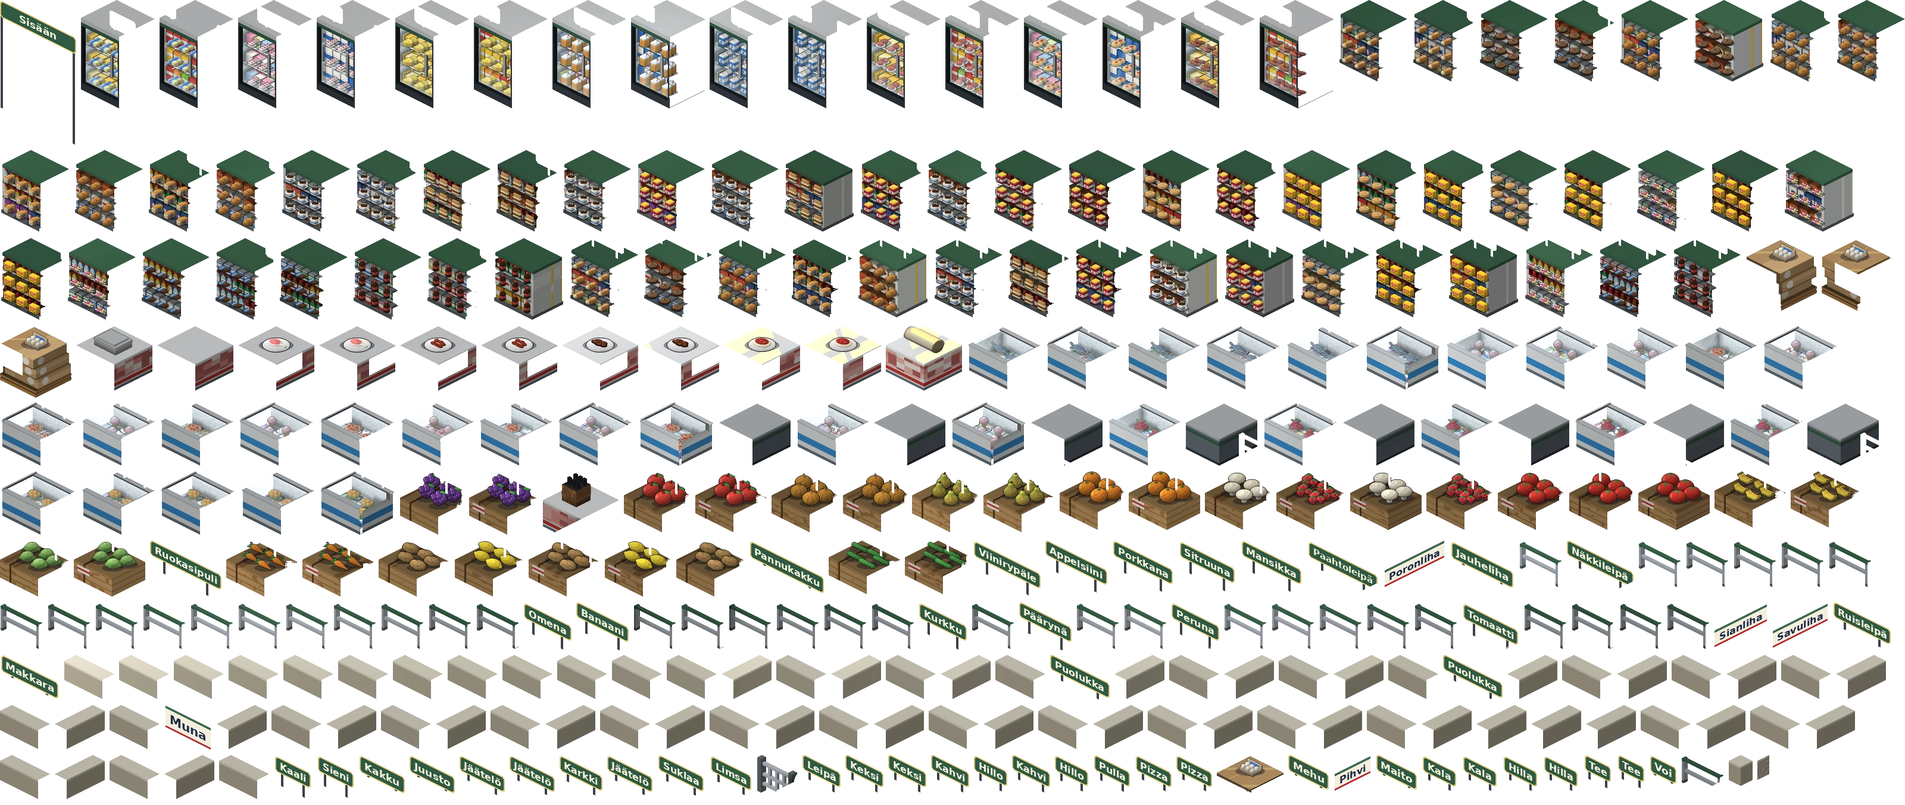
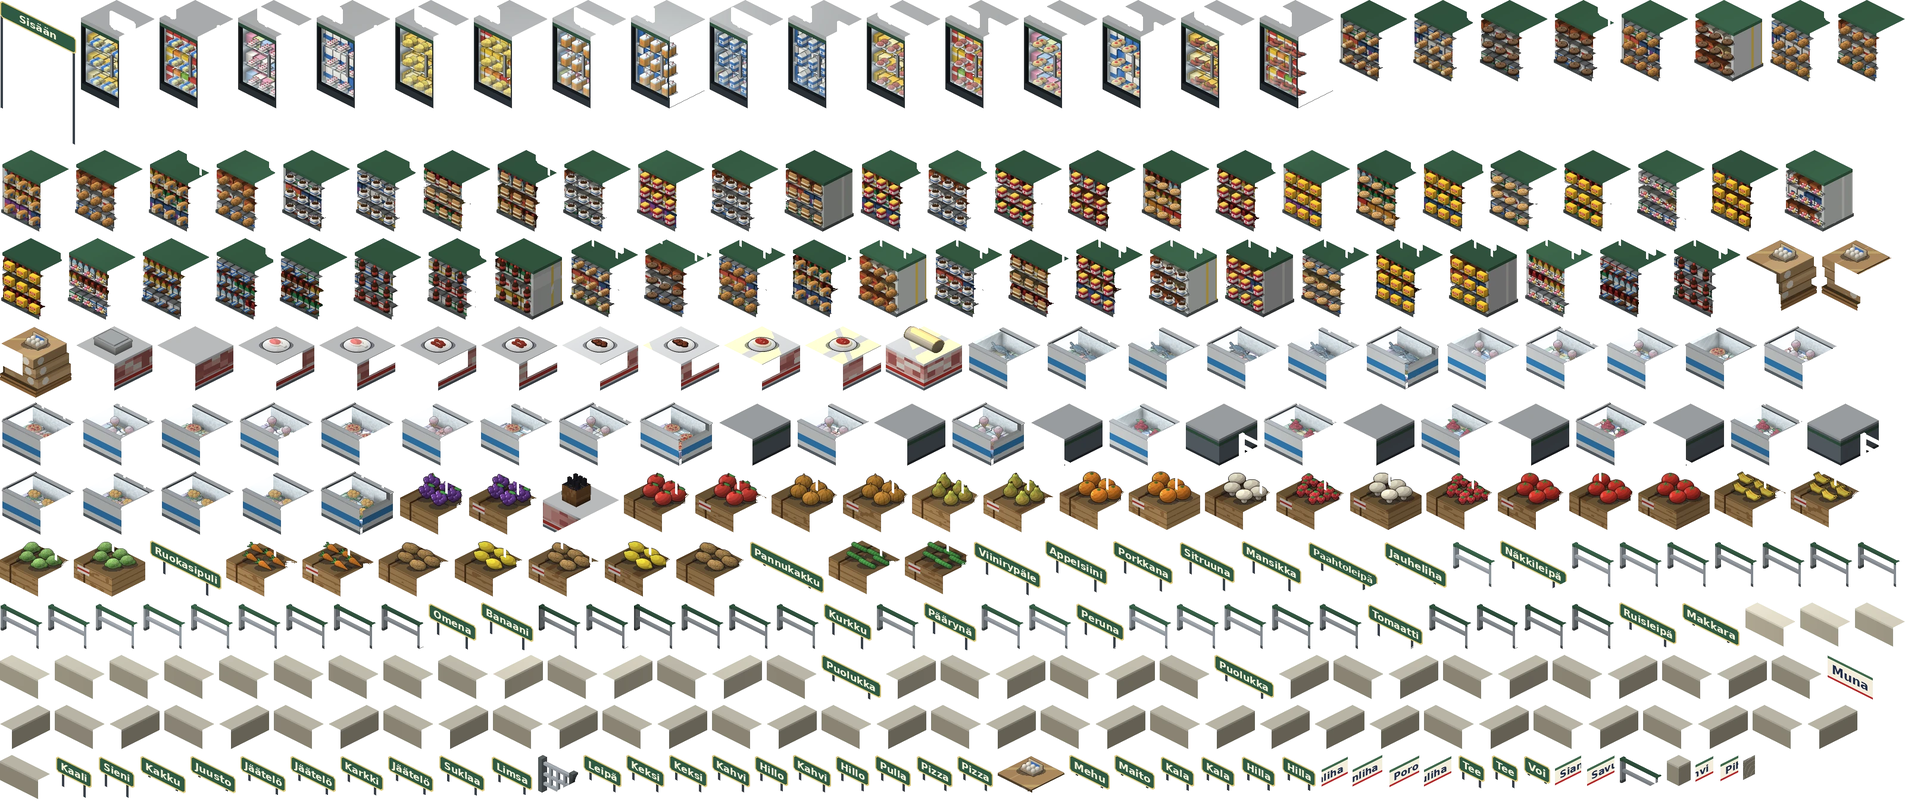
Sátnemátki v0.2.5.1
A hotfix: in Ruokakauppa the character no longer goes behind the signs on
the butcher's counter.

Changed region(s): [[0.0, 0.6524, 1.0, 0.9941], [0.9375, 0.9009, 0.9688, 0.932]]

diff --git a/art/store/fixtures.js b/art/store/fixtures.js
@@ -1,2 +1,2 @@
 // Generated by tools/make_store.py: where each tile's picture is on the sheet, and where it goes in its 256-high cell.
-window.MAHTTE_STORE = {"41,27s":[0,0,128,244,-96,-36],"5,4":[136,0,124,184,4,72],"6,4":[268,0,124,184,4,72],"7,4":[400,0,124,184,4,72],"8,4":[532,0,124,184,4,72],"9,4":[664,0,124,184,4,72],"10,4":[796,0,124,184,4,72],"11,4":[928,0,124,184,4,72],"12,4":[1060,0,124,184,4,72],"15,4":[1192,0,124,184,4,72],"16,4":[1324,0,124,184,4,72],"17,4":[1456,0,124,184,4,72],"18,4":[1588,0,124,184,4,72],"19,4":[1720,0,124,184,4,72],"20,4":[1852,0,124,184,4,72],"21,4":[1984,0,124,184,4,72],"22,4":[2116,0,124,184,4,72],"6,9":[2248,0,116,140,4,116],"7,9":[2372,0,104,140,4,116],"9,9":[2484,0,116,140,4,116],"10,9":[2608,0,104,140,4,116],"6,14":[2720,0,116,140,4,116],"12,9":[2844,0,120,140,4,116],"7,14":[2972,0,104,140,4,116],"9,14":[3084,0,116,140,4,116],"15,9":[0,252,116,140,4,116],"10,14":[124,252,116,140,4,116],"16,9":[248,252,104,140,4,116],"11,14":[360,252,104,140,4,116],"6,19":[472,252,116,140,4,116],"7,19":[596,252,104,140,4,116],"18,9":[708,252,116,140,4,116],"19,9":[832,252,104,140,4,116],"9,19":[944,252,116,140,4,116],"15,14":[1068,252,116,140,4,116],"10,19":[1192,252,116,140,4,116],"21,9":[1316,252,120,140,4,116],"16,14":[1444,252,104,140,4,116],"11,19":[1556,252,104,140,4,116],"18,14":[1668,252,116,140,4,116],"19,14":[1792,252,116,140,4,116],"25,9":[1916,252,116,140,4,116],"20,14":[2040,252,104,140,4,116],"15,19":[2152,252,116,140,4,116],"26,9":[2276,252,104,140,4,116],"16,19":[2388,252,104,140,4,116],"28,9":[2500,252,116,140,4,116],"18,19":[2624,252,116,140,4,116],"29,9":[2748,252,116,140,4,116],"19,19":[2872,252,116,140,4,116],"30,9":[2996,252,120,140,4,116],"20,19":[0,400,104,140,4,116],"34,9":[112,400,116,140,4,116],"35,9":[236,400,116,140,4,116],"36,9":[360,400,100,140,4,116],"38,9":[468,400,116,140,4,116],"39,9":[592,400,116,140,4,116],"40,9":[716,400,104,140,4,116],"42,9":[828,400,120,140,4,116],"8,9":[956,400,116,136,4,120],"11,9":[1080,400,116,136,4,120],"8,14":[1204,400,116,136,4,120],"17,9":[1328,400,104,136,4,120],"12,14":[1440,400,120,136,4,120],"8,19":[1568,400,116,136,4,120],"20,9":[1692,400,104,136,4,120],"17,14":[1804,400,116,136,4,120],"12,19":[1928,400,120,136,4,120],"21,14":[2056,400,120,136,4,120],"27,9":[2184,400,116,136,4,120],"17,19":[2308,400,116,136,4,120],"21,19":[2432,400,120,136,4,120],"33,9":[2560,400,116,136,4,120],"37,9":[2684,400,116,136,4,120],"41,9":[2808,400,116,136,4,120],"31,24":[2932,400,120,124,0,132],"30,25":[3060,400,120,124,8,132],"31,25":[0,548,120,120,4,132],"3,4":[128,548,128,108,0,148],"3,5":[264,548,128,108,0,148],"3,6":[400,548,128,108,0,148],"3,7":[536,548,128,108,0,148],"3,8":[672,548,128,108,0,148],"3,9":[808,548,128,108,0,148],"3,10":[944,548,128,108,0,148],"3,11":[1080,548,128,108,0,148],"3,12":[1216,548,128,108,0,148],"3,13":[1352,548,128,108,0,148],"3,14":[1488,548,128,108,0,148],"25,4":[1624,548,124,108,0,148],"26,4":[1756,548,128,108,0,148],"27,4":[1892,548,124,108,0,148],"28,4":[2024,548,128,108,0,148],"29,4":[2160,548,124,108,0,148],"30,4":[2292,548,128,108,0,148],"33,4":[2428,548,124,108,0,148],"34,4":[2560,548,128,108,0,148],"35,4":[2696,548,124,108,0,148],"25,14":[2828,548,124,108,0,148],"36,4":[2960,548,128,108,0,148],"26,14":[0,676,128,108,0,148],"37,4":[136,676,124,108,0,148],"27,14":[268,676,124,108,0,148],"38,4":[400,676,128,108,0,148],"28,14":[536,676,128,108,0,148],"39,4":[672,676,124,108,0,148],"29,14":[804,676,124,108,0,148],"40,4":[936,676,128,108,0,148],"30,14":[1072,676,128,108,0,148],"20,24":[1208,676,120,108,4,148],"41,4":[1336,676,124,108,0,148],"20,25":[1468,676,120,108,4,148],"42,4":[1596,676,128,108,0,148],"20,26":[1732,676,120,108,4,148],"33,14":[1860,676,124,108,0,148],"20,27":[1992,676,120,108,4,148],"34,14":[2120,676,128,108,0,148],"24,24":[2256,676,120,108,4,148],"35,14":[2384,676,124,108,0,148],"24,25":[2516,676,120,108,4,148],"36,14":[2644,676,124,108,0,148],"24,26":[2776,676,120,108,4,148],"37,14":[2904,676,124,108,0,148],"24,27":[3036,676,120,108,4,148],"38,14":[0,792,128,108,0,148],"39,14":[136,792,124,108,0,148],"40,14":[268,792,128,108,0,148],"41,14":[404,792,124,108,0,148],"42,14":[536,792,128,108,0,148],"37,19":[672,792,108,108,4,148],"38,19":[788,792,116,108,4,148],"2,4":[912,792,128,104,0,132],"25,19":[1048,792,112,104,4,152],"26,19":[1168,792,120,104,4,152],"27,22":[1296,792,112,104,4,152],"28,22":[1416,792,108,104,4,152],"33,22":[1532,792,112,104,4,152],"34,22":[1652,792,120,104,4,152],"29,22":[1780,792,108,100,4,156],"30,22":[1896,792,120,100,4,156],"41,19":[2024,792,112,100,4,156],"38,22":[2144,792,116,100,4,156],"42,19":[2268,792,120,100,4,156],"39,22":[2396,792,112,100,4,156],"40,22":[2516,792,112,100,4,156],"41,22":[2636,792,108,100,4,156],"42,22":[2752,792,120,100,4,156],"27,19":[2880,792,120,96,4,160],"28,19":[3008,792,116,96,4,160],"29,19":[0,908,116,96,4,160],"30,19":[124,908,120,96,4,160],"28,22s":[252,908,120,96,-8,96],"33,19":[380,908,120,96,4,160],"34,19":[508,908,120,96,4,160],"35,22":[636,908,120,96,4,160],"39,19":[764,908,116,96,4,160],"36,22":[888,908,120,96,4,160],"40,19":[1016,908,112,96,4,160],"37,22":[1136,908,116,96,4,160],"20,4s":[1260,908,124,92,-52,36],"35,19":[1392,908,120,92,4,164],"36,19":[1520,908,108,92,4,164],"38,19s":[1636,908,112,92,-4,96],"30,22s":[1756,908,104,88,0,100],"34,19s":[1868,908,104,88,0,100],"40,19s":[1980,908,96,88,4,100],"39,22s":[2084,908,104,88,0,100],"17,9s":[2196,908,120,84,4,76],"3,9s":[2324,908,104,80,76,156],"18,4s":[2436,908,108,80,-44,40],"2,27":[2552,908,72,80,28,164],"20,9s":[2632,908,112,80,8,80],"3,27":[2752,908,72,80,28,164],"4,27":[2832,908,72,80,28,164],"5,27":[2912,908,72,80,28,164],"6,27":[2992,908,72,80,28,164],"7,27":[3072,908,72,80,28,164],"8,27":[0,1012,72,80,28,164],"9,27":[80,1012,72,80,28,164],"10,27":[160,1012,72,80,28,164],"11,27":[240,1012,72,80,28,164],"12,27":[320,1012,72,80,28,164],"13,27":[400,1012,72,80,28,164],"14,27":[480,1012,72,80,28,164],"15,27":[560,1012,72,80,28,164],"16,27":[640,1012,72,80,28,164],"17,27":[720,1012,72,80,28,164],"18,27":[800,1012,72,80,28,164],"26,19s":[880,1012,80,80,12,104],"28,19s":[968,1012,88,80,8,104],"21,27":[1064,1012,72,80,28,164],"22,27":[1144,1012,72,80,28,164],"25,27":[1224,1012,72,80,28,164],"26,27":[1304,1012,72,80,28,164],"27,27":[1384,1012,72,80,28,164],"28,27":[1464,1012,72,80,28,164],"36,19s":[1544,1012,80,80,12,104],"29,27":[1632,1012,72,80,28,164],"34,22s":[1712,1012,88,80,8,104],"30,27":[1808,1012,72,80,28,164],"31,27":[1888,1012,72,80,28,164],"36,22s":[1968,1012,80,80,44,120],"32,27":[2056,1012,72,80,28,164],"33,27":[2136,1012,72,80,28,164],"34,27":[2216,1012,72,80,28,164],"35,27":[2296,1012,72,80,28,164],"36,27":[2376,1012,72,80,28,164],"41,22s":[2456,1012,96,80,36,116],"37,27":[2560,1012,72,80,28,164],"38,27":[2640,1012,72,80,28,164],"41,27":[2720,1012,72,80,28,164],"42,27":[2800,1012,72,80,28,164],"3,7s":[2880,1012,88,76,84,156],"3,11s":[2976,1012,96,76,80,156],"11,9s":[3080,1012,96,76,16,84],"22,4s":[0,1100,100,76,-40,44],"2,32":[108,1100,84,76,44,160],"3,32":[200,1100,84,76,44,160],"4,32":[292,1100,84,76,44,160],"5,32":[384,1100,84,76,44,160],"6,32":[476,1100,84,76,44,160],"7,32":[568,1100,84,76,44,160],"8,32":[660,1100,84,76,44,160],"9,32":[752,1100,84,76,44,160],"10,32":[844,1100,84,76,44,160],"11,32":[936,1100,84,76,44,160],"12,32":[1028,1100,84,76,44,160],"13,32":[1120,1100,84,76,44,160],"44,2":[1212,1100,84,76,0,160],"14,32":[1304,1100,84,76,44,160],"44,3":[1396,1100,84,76,0,160],"15,32":[1488,1100,84,76,44,160],"44,4":[1580,1100,84,76,0,160],"16,32":[1672,1100,84,76,44,160],"34,14s":[1764,1100,100,76,40,108],"44,5":[1872,1100,84,76,0,160],"17,32":[1964,1100,84,76,44,160],"44,6":[2056,1100,84,76,0,160],"18,32":[2148,1100,84,76,44,160],"44,7":[2240,1100,84,76,0,160],"19,32":[2332,1100,84,76,44,160],"37,14s":[2424,1100,100,76,40,108],"44,8":[2532,1100,84,76,0,160],"20,32":[2624,1100,84,76,44,160],"44,9":[2716,1100,84,76,0,160],"21,32":[2808,1100,84,76,44,160],"44,10":[2900,1100,84,76,0,160],"22,32":[2992,1100,84,76,44,160],"44,11":[3084,1100,84,76,0,160],"23,32":[0,1184,84,76,44,160],"44,12":[92,1184,84,76,0,160],"24,32":[184,1184,84,76,44,160],"31,25s":[276,1184,80,76,-36,140],"44,13":[364,1184,84,76,0,160],"25,32":[456,1184,84,76,44,160],"44,14":[548,1184,84,76,0,160],"26,32":[640,1184,84,76,44,160],"44,15":[732,1184,84,76,0,160],"27,32":[824,1184,84,76,44,160],"44,16":[916,1184,84,76,0,160],"28,32":[1008,1184,84,76,44,160],"44,17":[1100,1184,84,76,0,160],"29,32":[1192,1184,84,76,44,160],"44,18":[1284,1184,84,76,0,160],"30,32":[1376,1184,84,76,44,160],"44,19":[1468,1184,84,76,0,160],"31,32":[1560,1184,84,76,44,160],"44,20":[1652,1184,84,76,0,160],"32,32":[1744,1184,84,76,44,160],"44,21":[1836,1184,84,76,0,160],"33,32":[1928,1184,84,76,44,160],"44,22":[2020,1184,84,76,0,160],"34,32":[2112,1184,84,76,44,160],"44,23":[2204,1184,84,76,0,160],"35,32":[2296,1184,84,76,44,160],"44,24":[2388,1184,84,76,0,160],"44,25":[2480,1184,84,76,0,160],"44,26":[2572,1184,84,76,0,160],"44,27":[2664,1184,84,76,0,160],"39,32":[2756,1184,84,76,44,160],"44,28":[2848,1184,84,76,0,160],"40,32":[2940,1184,84,76,44,160],"44,29":[3032,1184,84,76,0,160],"41,32":[0,1268,84,76,44,160],"44,30":[92,1268,84,76,0,160],"42,32":[184,1268,84,76,44,160],"44,31":[276,1268,84,76,0,160],"43,32":[368,1268,84,76,44,160],"30,19s":[460,1268,64,72,20,108],"42,19s":[532,1268,64,72,20,108],"8,4s":[604,1268,76,68,-28,48],"10,4s":[688,1268,76,68,-28,48],"34,4s":[772,1268,76,68,52,112],"37,4s":[856,1268,76,68,52,112],"33,9s":[940,1268,72,68,28,88],"40,4s":[1020,1268,76,68,52,112],"37,9s":[1104,1268,80,68,24,88],"41,9s":[1192,1268,72,68,28,88],"2,14":[1272,1268,68,64,32,152],"8,9s":[1348,1268,64,64,32,92],"8,14s":[1420,1268,64,64,32,92],"12,14s":[1492,1268,64,64,32,92],"8,19s":[1564,1268,64,64,32,92],"17,14s":[1636,1268,56,64,36,92],"12,19s":[1700,1268,64,64,32,92],"21,14s":[1772,1268,56,64,36,92],"27,9s":[1836,1268,64,64,32,92],"26,14s":[1908,1268,60,64,60,116],"29,14s":[1976,1268,60,64,60,116],"30,24":[2044,1268,112,64,8,136],"12,4s":[2164,1268,68,60,-24,52],"3,13s":[2240,1268,64,60,96,164],"16,4s":[2312,1268,68,60,-24,52],"26,4s":[2388,1268,60,60,60,116],"29,4s":[2456,1268,60,60,60,116],"39,14s":[2524,1268,60,60,60,116],"42,14s":[2592,1268,60,60,60,116],"17,19s":[2660,1268,48,56,40,96],"21,19s":[2716,1268,48,56,40,96],"6,4s":[2772,1268,44,52,-12,56],"43,27":[2824,1268,72,52,28,164],"44,32":[2904,1268,40,52,44,160],"36,32":[2952,1268,20,44,44,160]};
+window.MAHTTE_STORE = {"41,27s":[0,0,128,244,-96,-36],"5,4":[136,0,124,184,4,72],"6,4":[268,0,124,184,4,72],"7,4":[400,0,124,184,4,72],"8,4":[532,0,124,184,4,72],"9,4":[664,0,124,184,4,72],"10,4":[796,0,124,184,4,72],"11,4":[928,0,124,184,4,72],"12,4":[1060,0,124,184,4,72],"15,4":[1192,0,124,184,4,72],"16,4":[1324,0,124,184,4,72],"17,4":[1456,0,124,184,4,72],"18,4":[1588,0,124,184,4,72],"19,4":[1720,0,124,184,4,72],"20,4":[1852,0,124,184,4,72],"21,4":[1984,0,124,184,4,72],"22,4":[2116,0,124,184,4,72],"6,9":[2248,0,116,140,4,116],"7,9":[2372,0,104,140,4,116],"9,9":[2484,0,116,140,4,116],"10,9":[2608,0,104,140,4,116],"6,14":[2720,0,116,140,4,116],"12,9":[2844,0,120,140,4,116],"7,14":[2972,0,104,140,4,116],"9,14":[3084,0,116,140,4,116],"15,9":[0,252,116,140,4,116],"10,14":[124,252,116,140,4,116],"16,9":[248,252,104,140,4,116],"11,14":[360,252,104,140,4,116],"6,19":[472,252,116,140,4,116],"7,19":[596,252,104,140,4,116],"18,9":[708,252,116,140,4,116],"19,9":[832,252,104,140,4,116],"9,19":[944,252,116,140,4,116],"15,14":[1068,252,116,140,4,116],"10,19":[1192,252,116,140,4,116],"21,9":[1316,252,120,140,4,116],"16,14":[1444,252,104,140,4,116],"11,19":[1556,252,104,140,4,116],"18,14":[1668,252,116,140,4,116],"19,14":[1792,252,116,140,4,116],"25,9":[1916,252,116,140,4,116],"20,14":[2040,252,104,140,4,116],"15,19":[2152,252,116,140,4,116],"26,9":[2276,252,104,140,4,116],"16,19":[2388,252,104,140,4,116],"28,9":[2500,252,116,140,4,116],"18,19":[2624,252,116,140,4,116],"29,9":[2748,252,116,140,4,116],"19,19":[2872,252,116,140,4,116],"30,9":[2996,252,120,140,4,116],"20,19":[0,400,104,140,4,116],"34,9":[112,400,116,140,4,116],"35,9":[236,400,116,140,4,116],"36,9":[360,400,100,140,4,116],"38,9":[468,400,116,140,4,116],"39,9":[592,400,116,140,4,116],"40,9":[716,400,104,140,4,116],"42,9":[828,400,120,140,4,116],"8,9":[956,400,116,136,4,120],"11,9":[1080,400,116,136,4,120],"8,14":[1204,400,116,136,4,120],"17,9":[1328,400,104,136,4,120],"12,14":[1440,400,120,136,4,120],"8,19":[1568,400,116,136,4,120],"20,9":[1692,400,104,136,4,120],"17,14":[1804,400,116,136,4,120],"12,19":[1928,400,120,136,4,120],"21,14":[2056,400,120,136,4,120],"27,9":[2184,400,116,136,4,120],"17,19":[2308,400,116,136,4,120],"21,19":[2432,400,120,136,4,120],"33,9":[2560,400,116,136,4,120],"37,9":[2684,400,116,136,4,120],"41,9":[2808,400,116,136,4,120],"31,24":[2932,400,120,124,0,132],"30,25":[3060,400,120,124,8,132],"31,25":[0,548,120,120,4,132],"3,4":[128,548,128,108,0,148],"3,5":[264,548,128,108,0,148],"3,6":[400,548,128,108,0,148],"3,7":[536,548,128,108,0,148],"3,8":[672,548,128,108,0,148],"3,9":[808,548,128,108,0,148],"3,10":[944,548,128,108,0,148],"3,11":[1080,548,128,108,0,148],"3,12":[1216,548,128,108,0,148],"3,13":[1352,548,128,108,0,148],"3,14":[1488,548,128,108,0,148],"25,4":[1624,548,124,108,0,148],"26,4":[1756,548,128,108,0,148],"27,4":[1892,548,124,108,0,148],"28,4":[2024,548,128,108,0,148],"29,4":[2160,548,124,108,0,148],"30,4":[2292,548,128,108,0,148],"33,4":[2428,548,124,108,0,148],"34,4":[2560,548,128,108,0,148],"35,4":[2696,548,124,108,0,148],"25,14":[2828,548,124,108,0,148],"36,4":[2960,548,128,108,0,148],"26,14":[0,676,128,108,0,148],"37,4":[136,676,124,108,0,148],"27,14":[268,676,124,108,0,148],"38,4":[400,676,128,108,0,148],"28,14":[536,676,128,108,0,148],"39,4":[672,676,124,108,0,148],"29,14":[804,676,124,108,0,148],"40,4":[936,676,128,108,0,148],"30,14":[1072,676,128,108,0,148],"20,24":[1208,676,120,108,4,148],"41,4":[1336,676,124,108,0,148],"20,25":[1468,676,120,108,4,148],"42,4":[1596,676,128,108,0,148],"20,26":[1732,676,120,108,4,148],"33,14":[1860,676,124,108,0,148],"20,27":[1992,676,120,108,4,148],"34,14":[2120,676,128,108,0,148],"24,24":[2256,676,120,108,4,148],"35,14":[2384,676,124,108,0,148],"24,25":[2516,676,120,108,4,148],"36,14":[2644,676,124,108,0,148],"24,26":[2776,676,120,108,4,148],"37,14":[2904,676,124,108,0,148],"24,27":[3036,676,120,108,4,148],"38,14":[0,792,128,108,0,148],"39,14":[136,792,124,108,0,148],"40,14":[268,792,128,108,0,148],"41,14":[404,792,124,108,0,148],"42,14":[536,792,128,108,0,148],"37,19":[672,792,108,108,4,148],"38,19":[788,792,116,108,4,148],"2,4":[912,792,128,104,0,132],"25,19":[1048,792,112,104,4,152],"26,19":[1168,792,120,104,4,152],"27,22":[1296,792,112,104,4,152],"28,22":[1416,792,108,104,4,152],"33,22":[1532,792,112,104,4,152],"34,22":[1652,792,120,104,4,152],"29,22":[1780,792,108,100,4,156],"30,22":[1896,792,120,100,4,156],"41,19":[2024,792,112,100,4,156],"38,22":[2144,792,116,100,4,156],"42,19":[2268,792,120,100,4,156],"39,22":[2396,792,112,100,4,156],"40,22":[2516,792,112,100,4,156],"41,22":[2636,792,108,100,4,156],"42,22":[2752,792,120,100,4,156],"27,19":[2880,792,120,96,4,160],"28,19":[3008,792,116,96,4,160],"29,19":[0,908,116,96,4,160],"30,19":[124,908,120,96,4,160],"28,22s":[252,908,120,96,-8,96],"33,19":[380,908,120,96,4,160],"34,19":[508,908,120,96,4,160],"35,22":[636,908,120,96,4,160],"39,19":[764,908,116,96,4,160],"36,22":[888,908,120,96,4,160],"40,19":[1016,908,112,96,4,160],"37,22":[1136,908,116,96,4,160],"20,4s":[1260,908,124,92,-52,36],"35,19":[1392,908,120,92,4,164],"36,19":[1520,908,108,92,4,164],"38,19s":[1636,908,112,92,-4,96],"30,22s":[1756,908,104,88,0,100],"34,19s":[1868,908,104,88,0,100],"40,19s":[1980,908,96,88,4,100],"39,22s":[2084,908,104,88,0,100],"17,9s":[2196,908,120,84,4,76],"18,4s":[2324,908,108,80,-44,40],"2,27":[2440,908,72,80,28,164],"20,9s":[2520,908,112,80,8,80],"3,27":[2640,908,72,80,28,164],"4,27":[2720,908,72,80,28,164],"5,27":[2800,908,72,80,28,164],"6,27":[2880,908,72,80,28,164],"7,27":[2960,908,72,80,28,164],"8,27":[3040,908,72,80,28,164],"9,27":[3120,908,72,80,28,164],"10,27":[0,1012,72,80,28,164],"11,27":[80,1012,72,80,28,164],"12,27":[160,1012,72,80,28,164],"13,27":[240,1012,72,80,28,164],"14,27":[320,1012,72,80,28,164],"15,27":[400,1012,72,80,28,164],"16,27":[480,1012,72,80,28,164],"17,27":[560,1012,72,80,28,164],"18,27":[640,1012,72,80,28,164],"26,19s":[720,1012,80,80,12,104],"28,19s":[808,1012,88,80,8,104],"21,27":[904,1012,72,80,28,164],"22,27":[984,1012,72,80,28,164],"25,27":[1064,1012,72,80,28,164],"26,27":[1144,1012,72,80,28,164],"27,27":[1224,1012,72,80,28,164],"28,27":[1304,1012,72,80,28,164],"36,19s":[1384,1012,80,80,12,104],"29,27":[1472,1012,72,80,28,164],"34,22s":[1552,1012,88,80,8,104],"30,27":[1648,1012,72,80,28,164],"31,27":[1728,1012,72,80,28,164],"36,22s":[1808,1012,80,80,44,120],"32,27":[1896,1012,72,80,28,164],"33,27":[1976,1012,72,80,28,164],"34,27":[2056,1012,72,80,28,164],"35,27":[2136,1012,72,80,28,164],"36,27":[2216,1012,72,80,28,164],"41,22s":[2296,1012,96,80,36,116],"37,27":[2400,1012,72,80,28,164],"38,27":[2480,1012,72,80,28,164],"41,27":[2560,1012,72,80,28,164],"42,27":[2640,1012,72,80,28,164],"11,9s":[2720,1012,96,76,16,84],"22,4s":[2824,1012,100,76,-40,44],"2,32":[2932,1012,84,76,44,160],"3,32":[3024,1012,84,76,44,160],"4,32":[3116,1012,84,76,44,160],"5,32":[0,1100,84,76,44,160],"6,32":[92,1100,84,76,44,160],"7,32":[184,1100,84,76,44,160],"8,32":[276,1100,84,76,44,160],"9,32":[368,1100,84,76,44,160],"10,32":[460,1100,84,76,44,160],"11,32":[552,1100,84,76,44,160],"12,32":[644,1100,84,76,44,160],"13,32":[736,1100,84,76,44,160],"44,2":[828,1100,84,76,0,160],"14,32":[920,1100,84,76,44,160],"44,3":[1012,1100,84,76,0,160],"15,32":[1104,1100,84,76,44,160],"44,4":[1196,1100,84,76,0,160],"16,32":[1288,1100,84,76,44,160],"34,14s":[1380,1100,100,76,40,108],"44,5":[1488,1100,84,76,0,160],"17,32":[1580,1100,84,76,44,160],"44,6":[1672,1100,84,76,0,160],"18,32":[1764,1100,84,76,44,160],"44,7":[1856,1100,84,76,0,160],"19,32":[1948,1100,84,76,44,160],"37,14s":[2040,1100,100,76,40,108],"44,8":[2148,1100,84,76,0,160],"20,32":[2240,1100,84,76,44,160],"44,9":[2332,1100,84,76,0,160],"21,32":[2424,1100,84,76,44,160],"44,10":[2516,1100,84,76,0,160],"22,32":[2608,1100,84,76,44,160],"44,11":[2700,1100,84,76,0,160],"23,32":[2792,1100,84,76,44,160],"44,12":[2884,1100,84,76,0,160],"24,32":[2976,1100,84,76,44,160],"31,25s":[3068,1100,80,76,-36,140],"44,13":[0,1184,84,76,0,160],"25,32":[92,1184,84,76,44,160],"44,14":[184,1184,84,76,0,160],"26,32":[276,1184,84,76,44,160],"44,15":[368,1184,84,76,0,160],"27,32":[460,1184,84,76,44,160],"44,16":[552,1184,84,76,0,160],"28,32":[644,1184,84,76,44,160],"44,17":[736,1184,84,76,0,160],"29,32":[828,1184,84,76,44,160],"44,18":[920,1184,84,76,0,160],"30,32":[1012,1184,84,76,44,160],"44,19":[1104,1184,84,76,0,160],"31,32":[1196,1184,84,76,44,160],"44,20":[1288,1184,84,76,0,160],"32,32":[1380,1184,84,76,44,160],"44,21":[1472,1184,84,76,0,160],"33,32":[1564,1184,84,76,44,160],"44,22":[1656,1184,84,76,0,160],"34,32":[1748,1184,84,76,44,160],"44,23":[1840,1184,84,76,0,160],"35,32":[1932,1184,84,76,44,160],"44,24":[2024,1184,84,76,0,160],"44,25":[2116,1184,84,76,0,160],"44,26":[2208,1184,84,76,0,160],"44,27":[2300,1184,84,76,0,160],"39,32":[2392,1184,84,76,44,160],"44,28":[2484,1184,84,76,0,160],"40,32":[2576,1184,84,76,44,160],"44,29":[2668,1184,84,76,0,160],"41,32":[2760,1184,84,76,44,160],"44,30":[2852,1184,84,76,0,160],"42,32":[2944,1184,84,76,44,160],"44,31":[3036,1184,84,76,0,160],"43,32":[0,1268,84,76,44,160],"30,19s":[92,1268,64,72,20,108],"42,19s":[164,1268,64,72,20,108],"8,4s":[236,1268,76,68,-28,48],"10,4s":[320,1268,76,68,-28,48],"34,4s":[404,1268,76,68,52,112],"37,4s":[488,1268,76,68,52,112],"33,9s":[572,1268,72,68,28,88],"40,4s":[652,1268,76,68,52,112],"37,9s":[736,1268,80,68,24,88],"41,9s":[824,1268,72,68,28,88],"2,14":[904,1268,68,64,32,152],"8,9s":[980,1268,64,64,32,92],"8,14s":[1052,1268,64,64,32,92],"12,14s":[1124,1268,64,64,32,92],"8,19s":[1196,1268,64,64,32,92],"17,14s":[1268,1268,56,64,36,92],"12,19s":[1332,1268,64,64,32,92],"21,14s":[1404,1268,56,64,36,92],"27,9s":[1468,1268,64,64,32,92],"26,14s":[1540,1268,60,64,60,116],"29,14s":[1608,1268,60,64,60,116],"30,24":[1676,1268,112,64,8,136],"12,4s":[1796,1268,68,60,-24,52],"16,4s":[1872,1268,68,60,-24,52],"26,4s":[1948,1268,60,60,60,116],"29,4s":[2016,1268,60,60,60,116],"39,14s":[2084,1268,60,60,60,116],"42,14s":[2152,1268,60,60,60,116],"3,6s":[2220,1268,44,56,64,188],"3,8s":[2272,1268,52,56,64,188],"3,9s":[2332,1268,52,56,76,180],"3,10s":[2392,1268,48,56,64,188],"17,19s":[2448,1268,48,56,40,96],"21,19s":[2504,1268,48,56,40,96],"6,4s":[2560,1268,44,52,-12,56],"3,7s":[2612,1268,44,52,84,180],"3,11s":[2664,1268,48,52,80,180],"43,27":[2720,1268,72,52,28,164],"44,32":[2800,1268,40,52,44,160],"3,12s":[2848,1268,32,48,64,196],"3,13s":[2888,1268,32,44,96,180],"36,32":[2928,1268,20,44,44,160]};

diff --git a/index.html b/index.html
@@ -11,7 +11,7 @@
 <div class="stripe"></div>
 <header class="hero">
   <div class="hero-text">
-    <h1 lang="se">Sátnemátki <small>v0.2.5</small></h1>
+    <h1 lang="se">Sátnemátki <small>v0.2.5.1</small></h1>
     <p class="lead">Pohjoissaamen sanapeli lapsille. Nimi tarkoittaa <em>sanamatkaa</em>: kuljet hahmollasi kodissa, metsässä ja kaupassa ja etsit sen, mitä saamenkielinen sana tarkoittaa.</p>
     <a class="play" href="peli.html">Pelaa selaimessa</a>
     <p class="fine">Maksuton. Ei rekisteröitymistä eikä asennusta.</p>

diff --git a/peli.html b/peli.html
@@ -8,7 +8,7 @@
 </head>
 <body>
 <main>
-  <h1 id="game-title" lang="se">Sátnemátki <small>v0.2.5</small></h1>
+  <h1 id="game-title" lang="se">Sátnemátki <small>v0.2.5.1</small></h1>
   <header id="prompt" aria-live="polite"></header>
   <div id="top-hint" aria-live="polite"></div>
   <div id="view">

diff --git a/tools/make_store.py b/tools/make_store.py
@@ -983,9 +983,20 @@ def placed_sign(name, tx, ty, spec, between=False, along=8):
     x0, y0 = int(left // DETAIL * DETAIL), int(top // DETAIL * DETAIL)
     full = np.zeros((slanted.height + DETAIL * 2, slanted.width + DETAIL * 2, 4), np.uint8)
     full[round(top - y0):round(top - y0) + slanted.height, round(left - x0):round(left - x0) + slanted.width] = np.array(slanted)
+    if not spec.get("across"):
+        return [((tx, ty, "s"), cut_sign(full, x0, y0))]
+    # A banner across the front hangs half on the tile behind, and that half goes with that tile: else someone standing in front of it is drawn under it.
+    split = (16 + spec["front"]) * DETAIL - x0
+    near, far = full.copy(), full.copy()
+    near[:, split:] = 0
+    far[:, :split] = 0
+    return [((tx, ty, "s"), cut_sign(near, x0, y0)), ((tx, ty - 1, "s"), cut_sign(far, x0 - HW * DETAIL, y0 + HH * DETAIL))]
+
+
+def cut_sign(full, x0, y0):
     rows, columns = np.nonzero(full[:, :, 3].any(axis=1))[0], np.nonzero(full[:, :, 3].any(axis=0))[0]
     picture, cx, cy = on_whole_pixels(full, rows, columns)
-    return (tx, ty, "s"), (picture, x0 + cx, y0 + cy)
+    return picture, x0 + cx, y0 + cy
 
 
 def food_picture(sprite):
@@ -1067,10 +1078,10 @@ def main():
         letter = MAP[spots[0][1]][spots[0][0]]
         every = SIGNS[letter]["every"]
         places = [3] if letter == "e" else [1] if len(spots) == 2 else list(range(every // 2, len(spots), every))
-        pictures += [sign_item(sprite, spots, i, letter) for i in places]
+        pictures += [piece for i in places for piece in sign_item(sprite, spots, i, letter)]
     # And the signs for the way in and out. The tiles they go on must match tools/make_map.py.
     # Over the gate, on two posts standing either side of it, high enough to walk under.
-    pictures.append(placed_sign("Sisään", 41, 27, dict(front=8, high=7, posts=38, longest=30, top=45, wide=32), along=-16))
+    pictures += placed_sign("Sisään", 41, 27, dict(front=8, high=7, posts=38, longest=30, top=45, wide=32), along=-16)
     # It all goes into the floor's pictures, drawn just once. A tile is only drawn again over someone behind it. The back walls never need to be.
     columns, rows = max(c for c, _ in floor) + 1, max(r for _, r in floor) + 1
     world = np.zeros((rows * CHUNK, columns * CHUNK, 3), np.uint8)

diff --git a/README.md b/README.md
@@ -1,6 +1,6 @@
 # Sátnemátki
 
-*Sátnemátki* means "word journey" in Northern Sámi. Version 0.2.5, a technology demo.
+*Sátnemátki* means "word journey" in Northern Sámi. Version 0.2.5.1, a technology demo.
 
 A Northern Sámi word game for children. The player creates a character, Máhtte or Biret, chooses a place, and
 walks around it in an isometric view with a camera that follows: furniture and family at home, animals in the forest, coloured books on the shelves and
